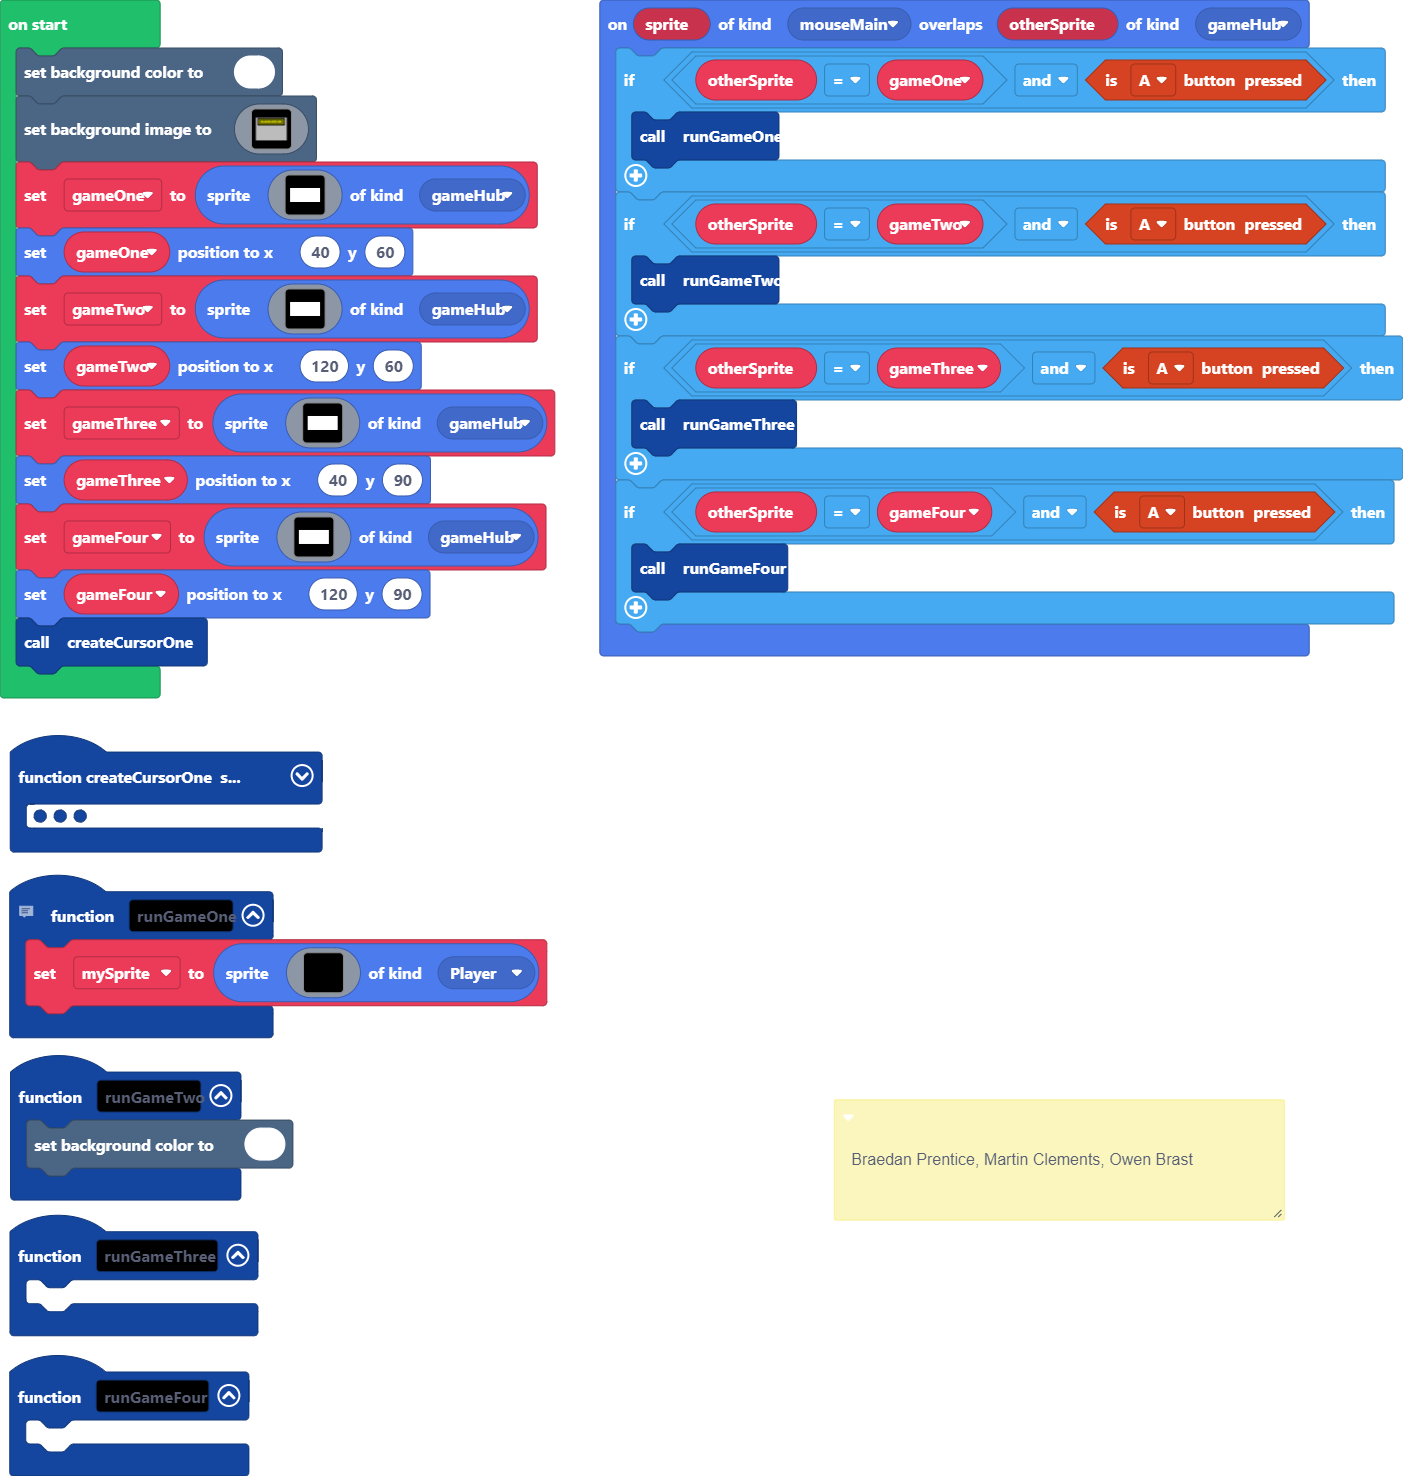
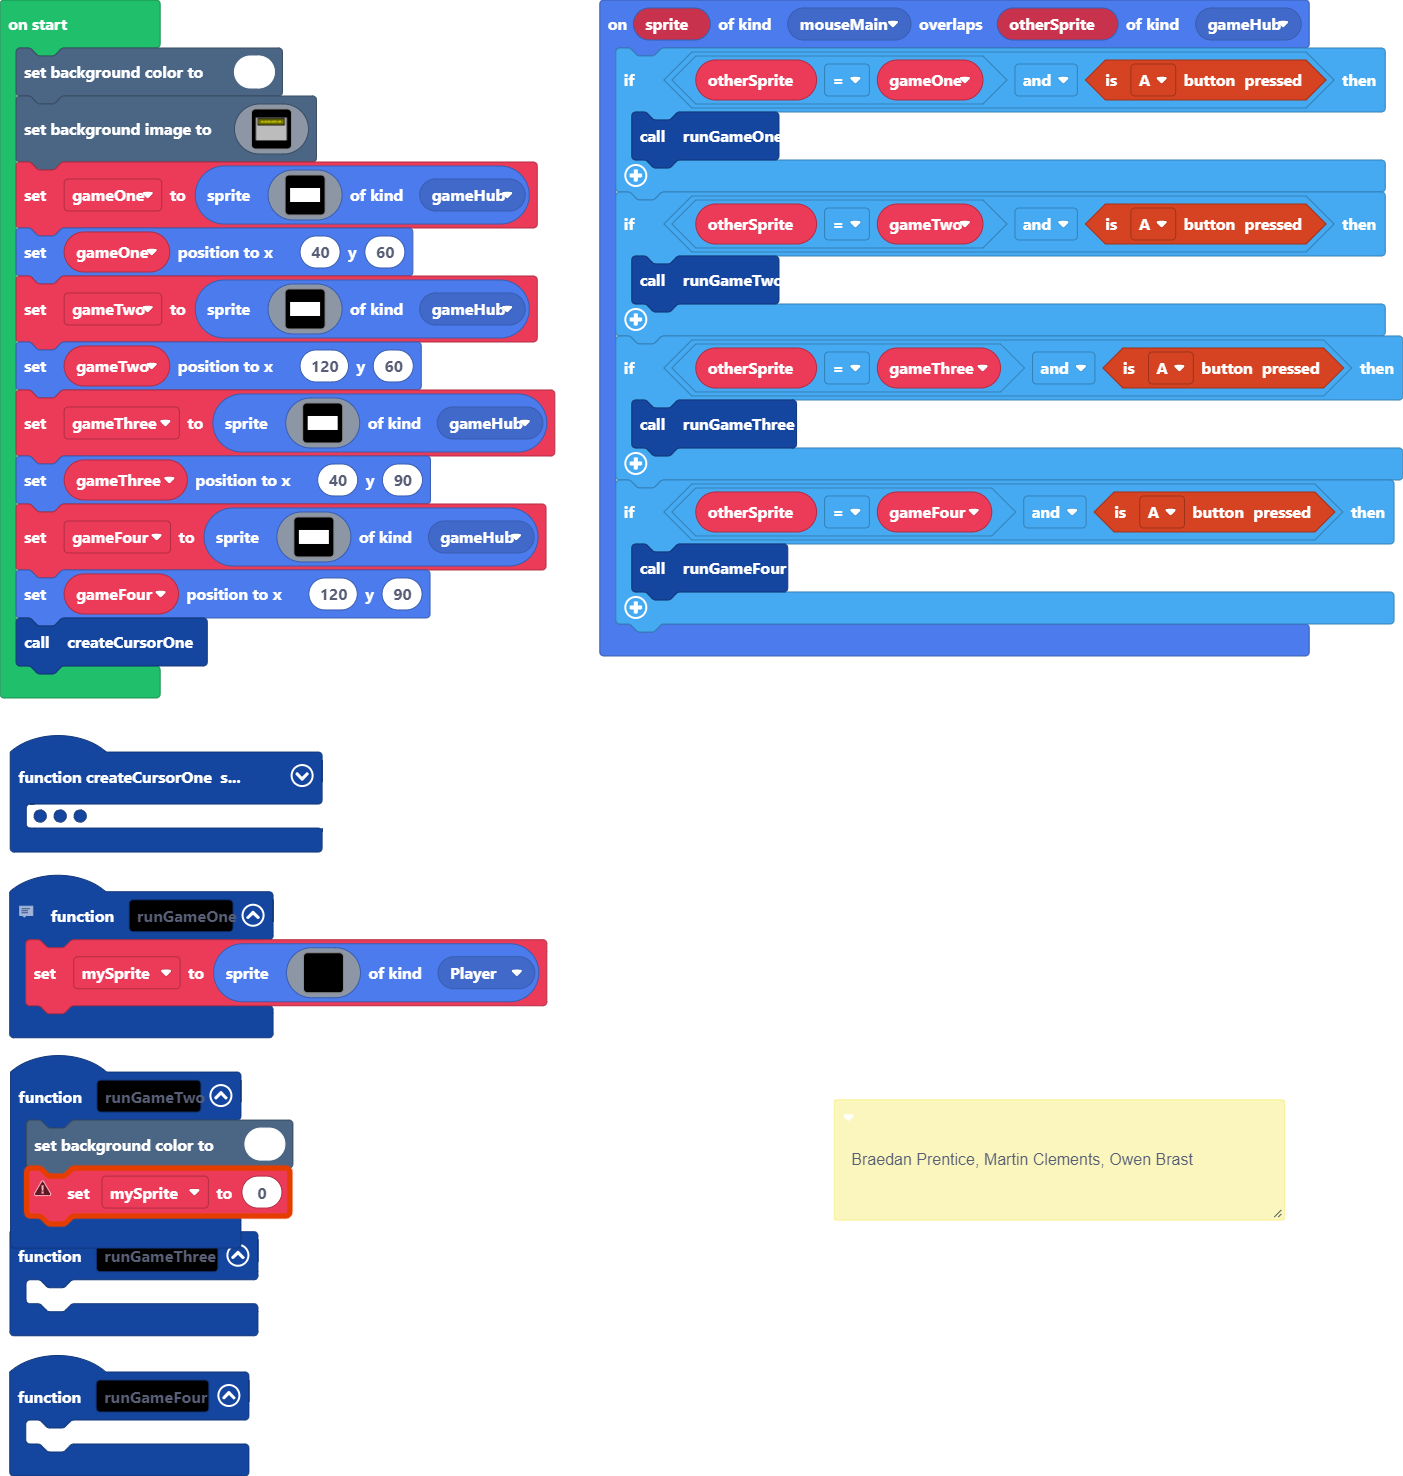
Update main.blocks, main.ts

Changed region(s): [[0.0, 0.7791, 0.2145, 0.8726]]

diff --git a/main.ts b/main.ts
@@ -72,6 +72,7 @@ function runGameOne () {
 }
 function runGameTwo () {
     scene.setBackgroundColor(1)
+    mySprite = 0
 }
 let mySprite: Sprite = null
 let cursorOne: Sprite = null
